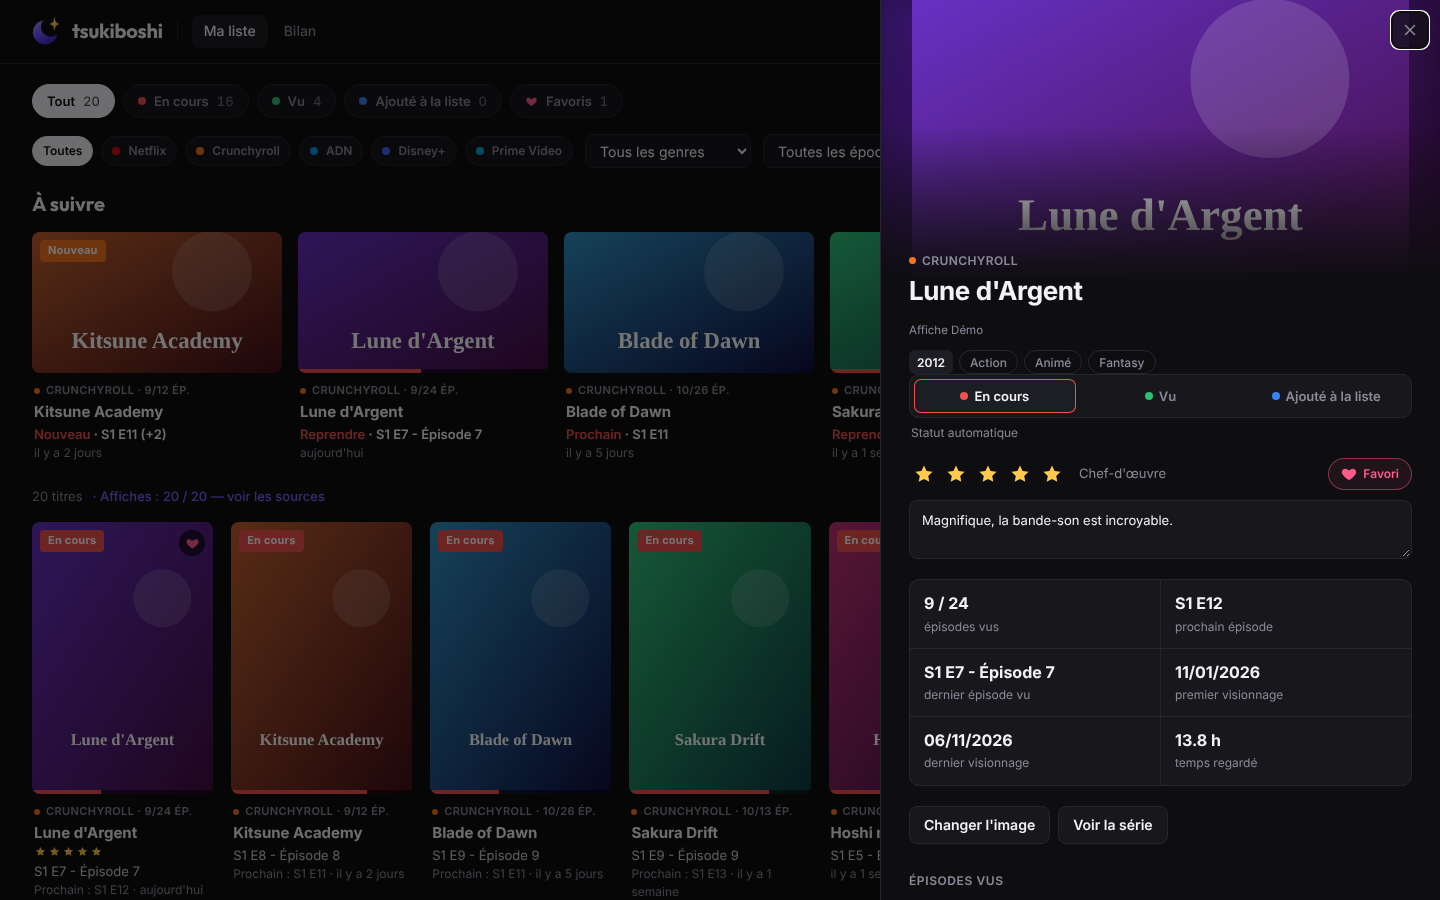
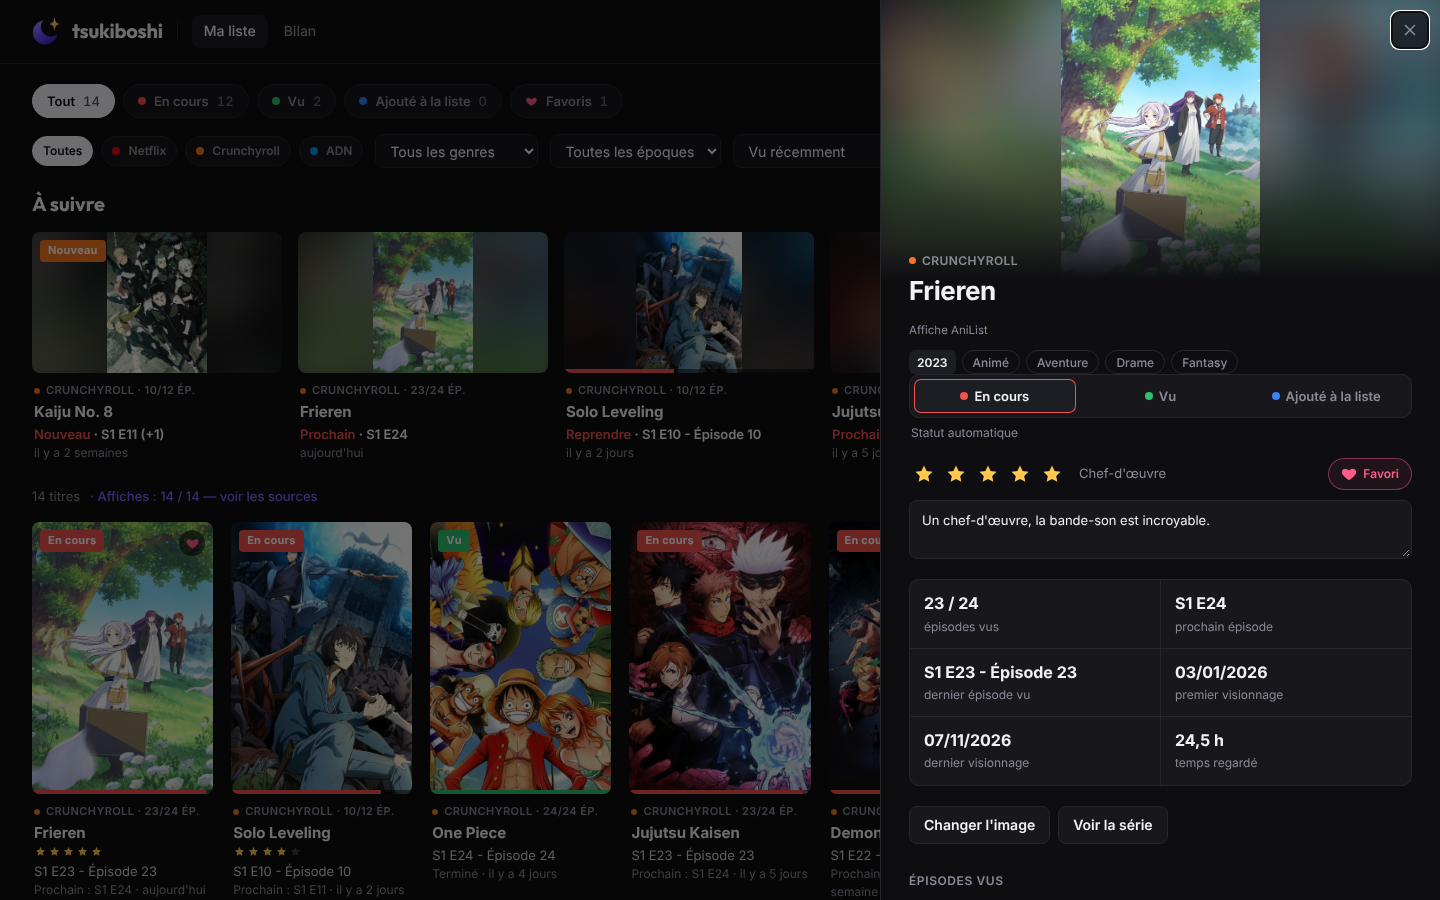
README : démonstration avec les affiches d'animés
GIF de démonstration et nouvelles captures (données de démonstration,
affiches d'animés via AniList à titre d'illustration, voir docs/CREDITS.md).

Claude-Session: https://claude.ai/code/session_01QCPTbr1wafCenqzz5fL37Q

diff --git a/README.md b/README.md
@@ -3,9 +3,9 @@
 **Ton journal de visionnage anime, séries et films, tenu à jour tout seul.**
 Extension Chrome qui récupère tout ton historique Crunchyroll, ADN, Netflix, Disney+ et Prime Video depuis la création de ton compte, le range par série dans un fichier Excel et dans une belle page « Ma liste » façon Plex, puis continue discrètement après chaque épisode.
 
-![Ma liste](docs/ma-liste.png)
+![Démonstration de tsukiboshi](docs/demo.gif)
 
-> Les captures utilisent des titres et des affiches inventés.
+> Captures réalisées avec des données de démonstration. Les affiches appartiennent à leurs studios respectifs et servent uniquement d'illustration ([détails](docs/CREDITS.md)). Chez toi, l'extension trouve automatiquement les affiches de tes propres séries et films.
 
 ## Ce qu'elle fait
 
@@ -18,6 +18,8 @@ Extension Chrome qui récupère tout ton historique Crunchyroll, ADN, Netflix, D
 - **Bilan** : heures regardées, calendrier de tes soirées, top 10, genres préférés, records.
 - **Notes, favoris et avis** sur chaque titre.
 - **Sauvegarde / restauration** pour changer de PC sans rien perdre.
+
+![Ma liste](docs/ma-liste.png)
 
 | Fiche d'un titre | Bilan | Popup |
 |---|---|---|
@@ -52,7 +54,7 @@ Projet personnel et non officiel, sans aucun lien avec Crunchyroll, ADN, Netflix
 
 ## Licence
 
-Code sous licence [MIT](LICENSE). Polices Inter et Outfit sous [SIL Open Font License 1.1](fonts/OFL.txt).
+Code sous licence [MIT](LICENSE). Polices Inter et Outfit sous [SIL Open Font License 1.1](fonts/OFL.txt). Affiches des captures : © leurs ayants droit, voir [docs/CREDITS.md](docs/CREDITS.md).
 
 ---
 

diff --git a/docs/CREDITS.md b/docs/CREDITS.md
@@ -1,0 +1,10 @@
+# Images de démonstration
+
+Les captures d'écran et le GIF de ce dépôt (`docs/`) utilisent des **données de démonstration** : aucun historique réel n'y figure.
+
+Les affiches visibles (Frieren, One Piece, Solo Leveling, Jujutsu Kaisen…) appartiennent à leurs studios et ayants droit respectifs.
+Elles proviennent de la base publique [AniList](https://anilist.co) et sont montrées **uniquement pour illustrer** le fonctionnement de l'extension,
+qui affiche chez chaque utilisateur les affiches de ses propres séries.
+Tsukiboshi n'est affilié à aucun de ces studios ni à aucune plateforme.
+
+Ayant droit et souhaitant le retrait d'une image ? Ouvre une *issue* sur ce dépôt : elle sera retirée rapidement.
